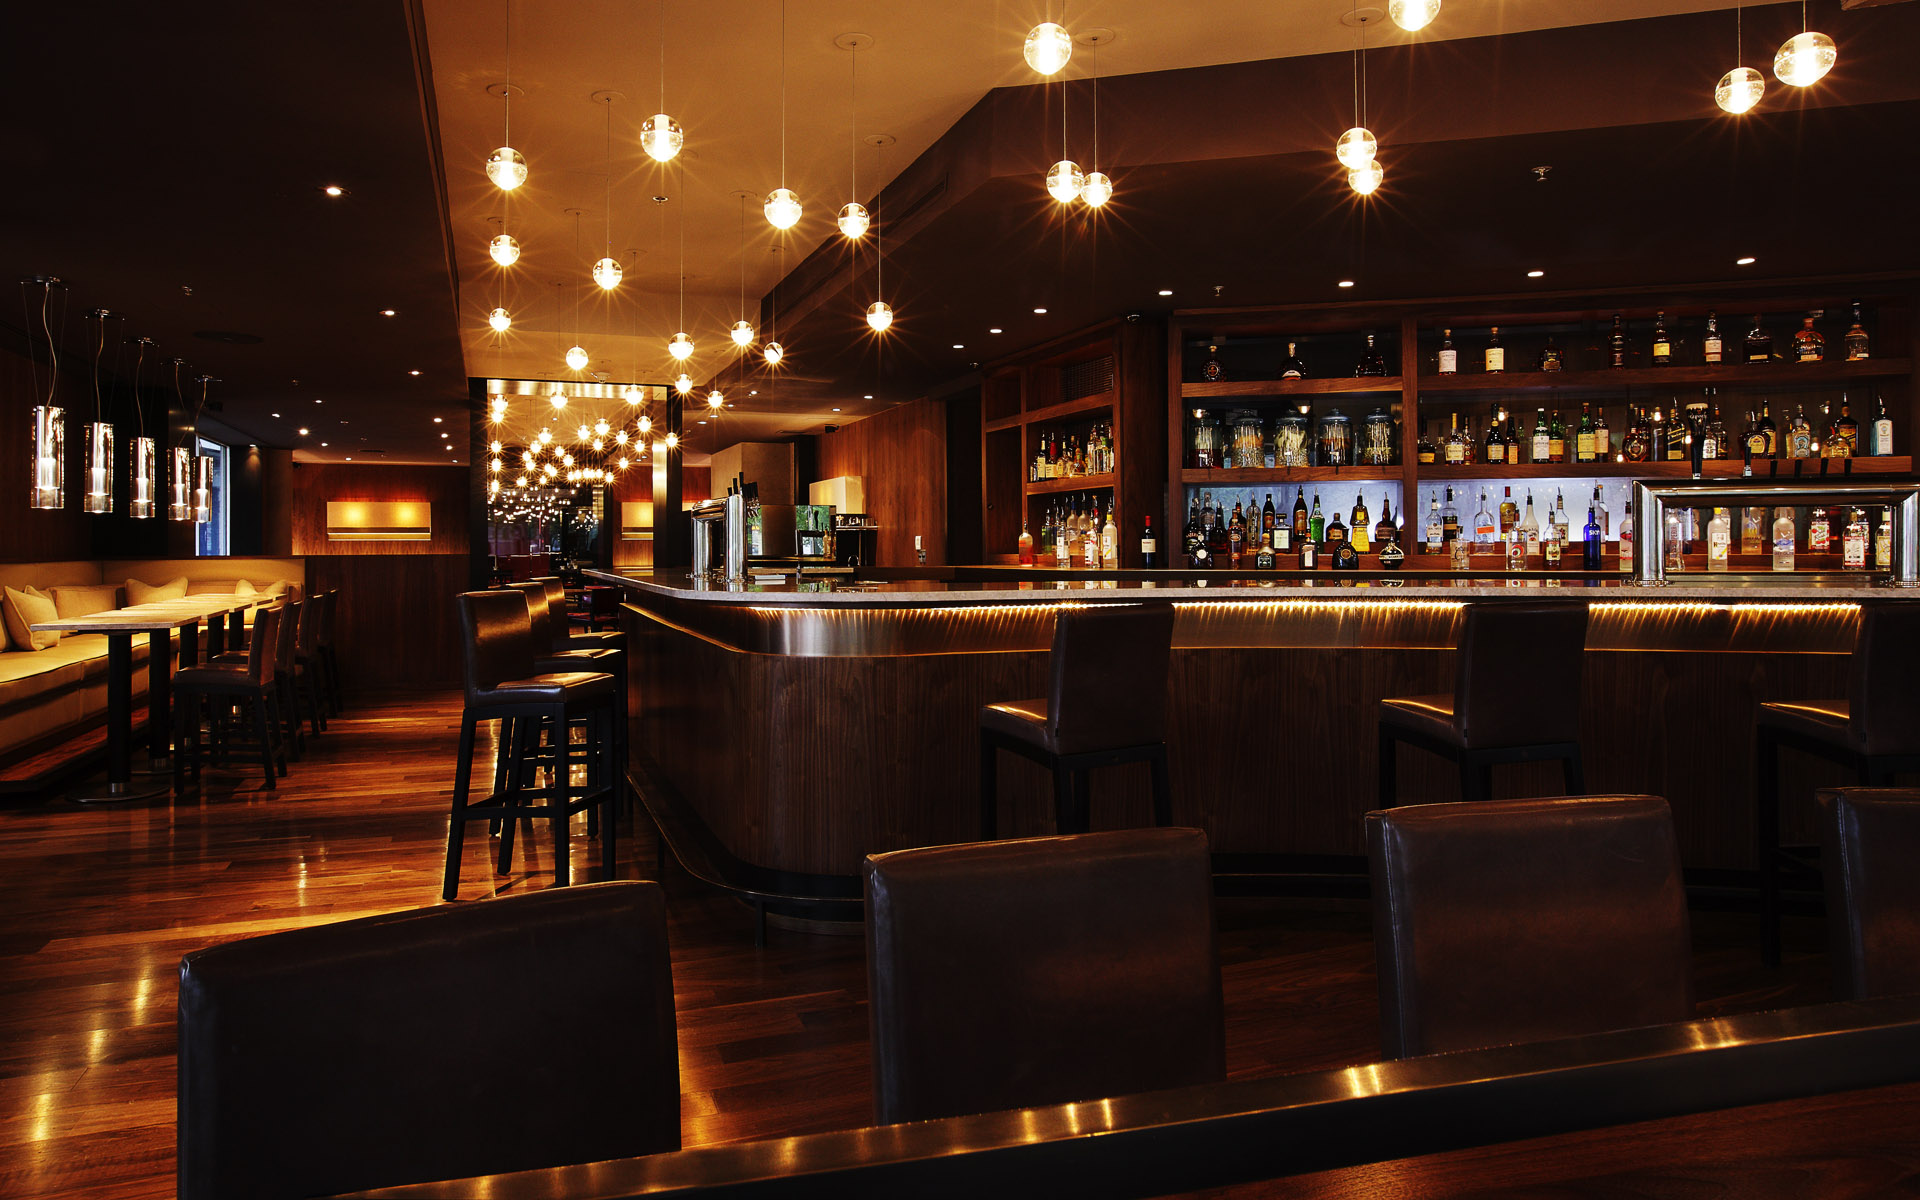
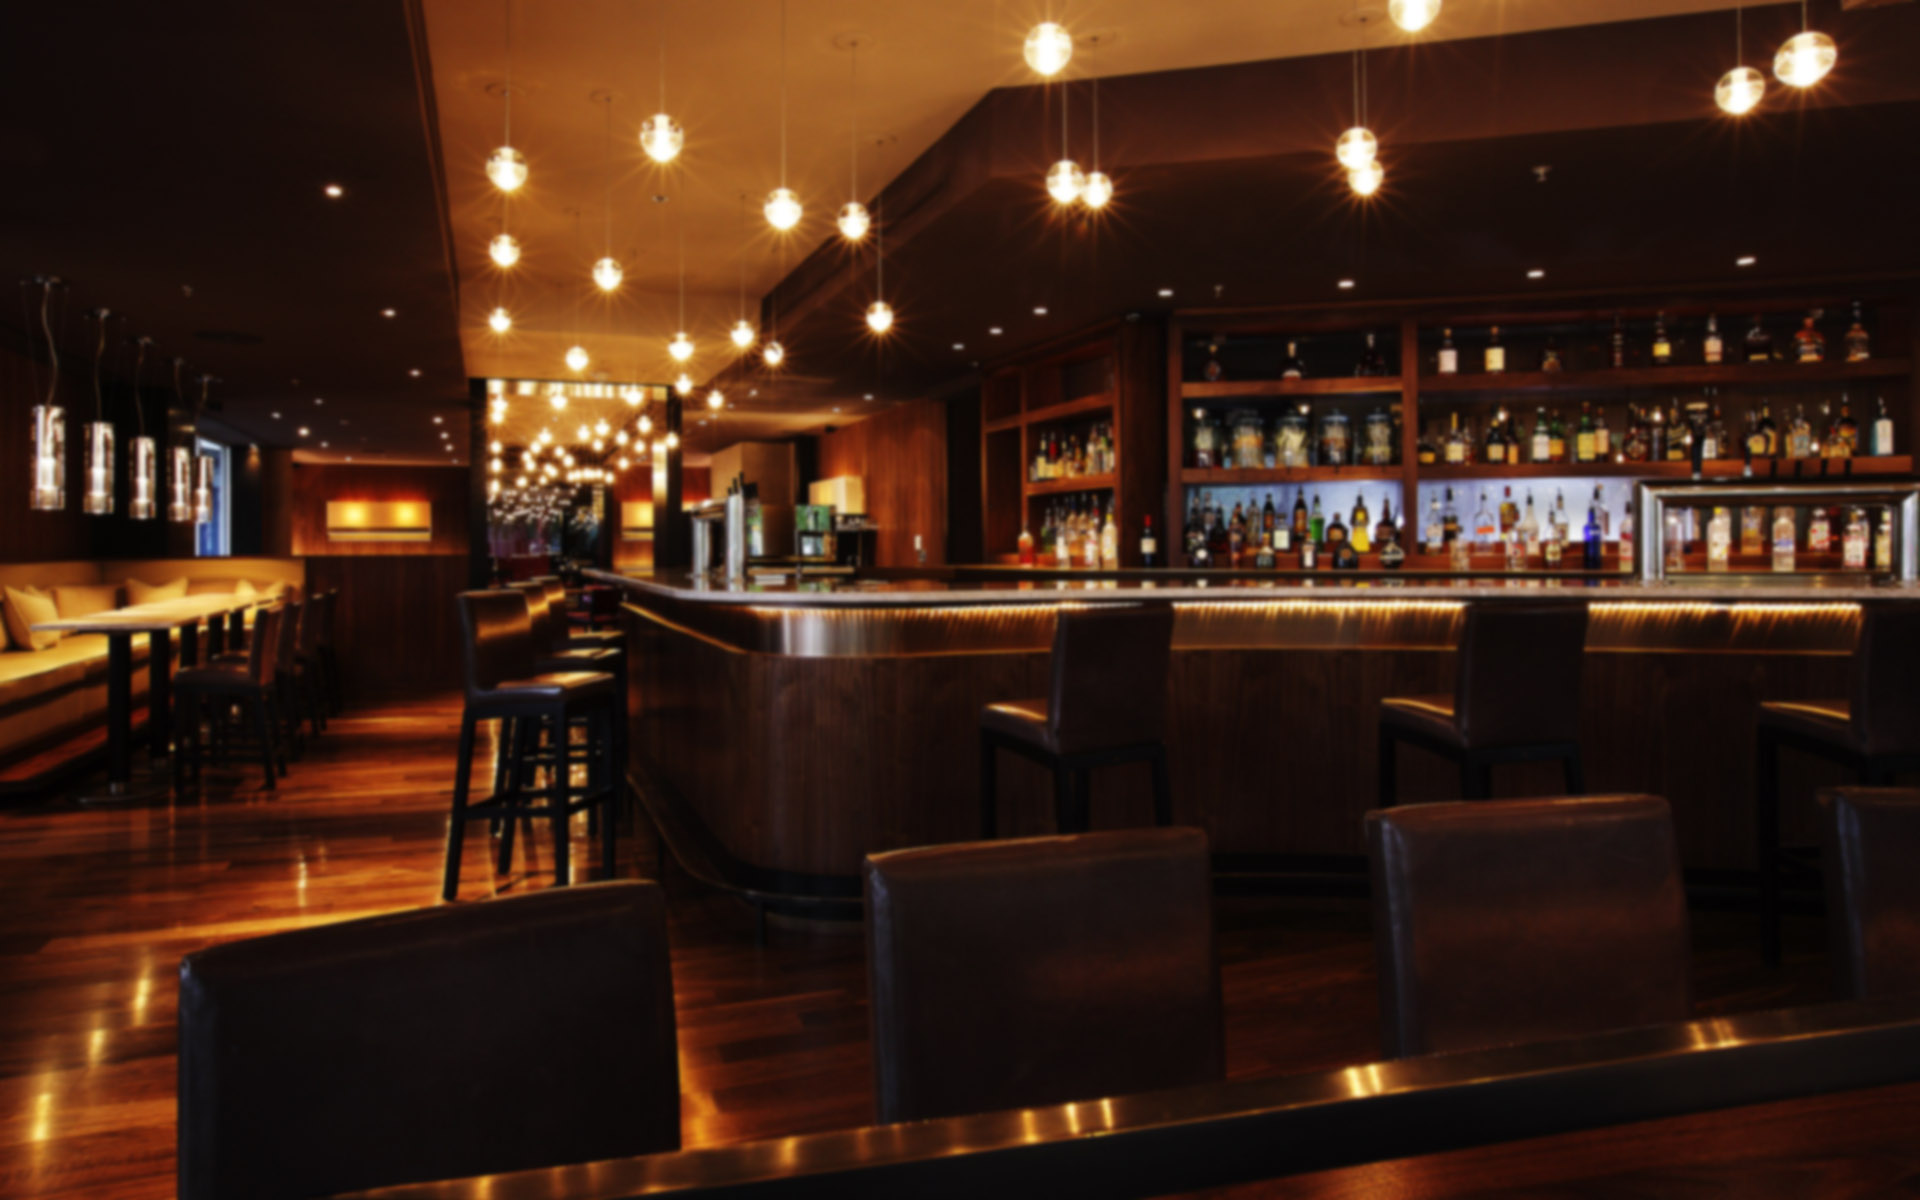
Blur original restraunt background image
Apply 5px horizontal and vertical guassian blur to restraunt image so
 it is blurred in firefox.

diff --git a/app/assets/stylesheets/bstyle.css b/app/assets/stylesheets/bstyle.css
@@ -359,15 +359,6 @@ footer{
 	margin-bottom: 10px;
 }
 
-
-.blur {
-	-webkit-filter: blur(5px);
-	-moz-filter: blur(5px);
-	-o-filter: blur(5px);
-	-ms-filter: blur(5px);
-	filter: blur(5px);
-}
-
 .img-background {
 	background:url("/assets/restaurant-img.jpg");
 	background-size: cover;
